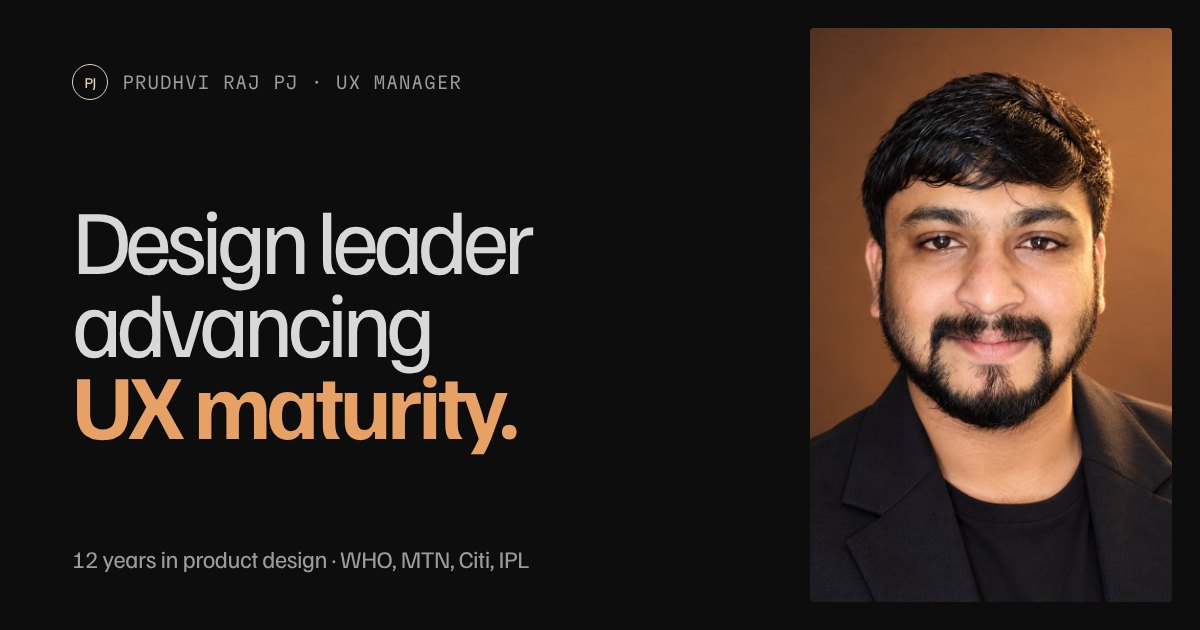
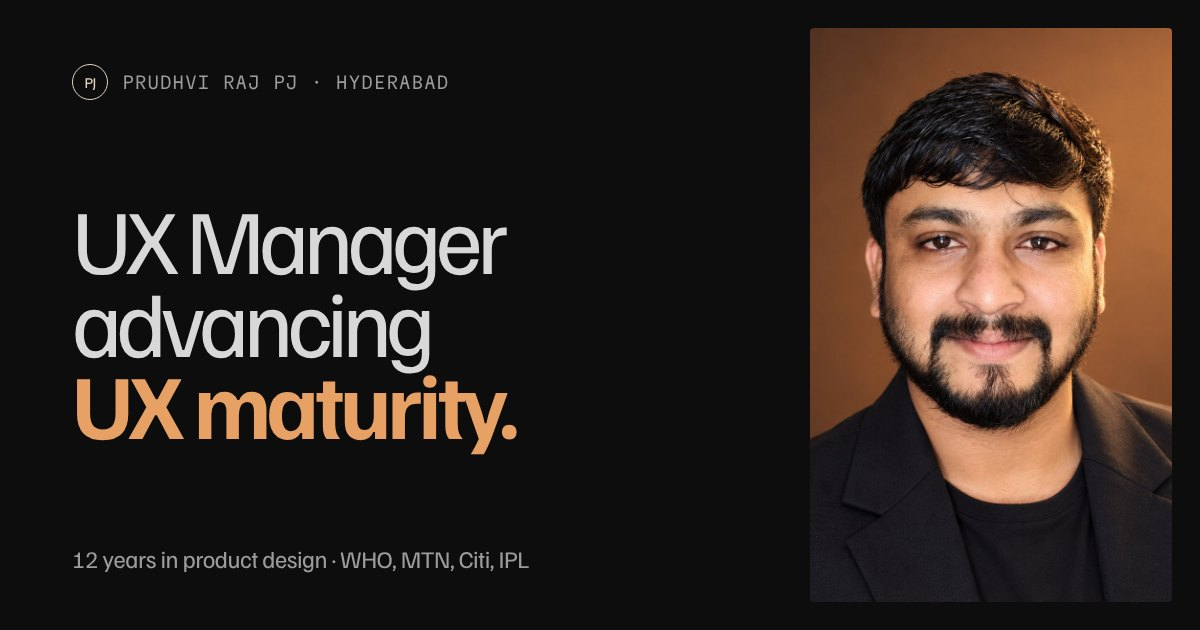
Apply the hiring-manager review: one title, portrait, decisions, shorter vision
- One title: the hero headline now leads with UX Manager; it shows in full
  from the first frame and only starts cycling after ~3.5s (no half-typed
  word on load). Link preview image regenerated to match.
- Portrait back, in About beside the principles; the projects layer now
  waits until About's closing row has been read before opening.
- Every case study gains 'The calls I made': three decisions drawn from
  the study (commented for the author to confirm and extend).
- Leadership: a before/after table of the team, built and hidden until
  real numbers are added.
- Vision section shortened from 2.8 to 1.7 screens.
- Hero tools fit one row on desktop; small tag text raised to 11.5px;
  About body leading eased. Asset stamps refreshed.

Claude-Session: https://claude.ai/code/session_01PyUrGB2wKp34VhQeSaTEvS

Changed region(s): [[0.0617, 0.3317, 0.4625, 0.4825], [0.2775, 0.1206, 0.4008, 0.1508]]

diff --git a/assets/css/studio.css b/assets/css/studio.css
@@ -218,12 +218,12 @@ ul{list-style:none}
 .about-mission{grid-column:8/12;position:relative;display:flex;flex-direction:column;gap:60px}
 .about-mission .plus{left:-7px;top:-80px}
 .about-mission .plus{background:#888}
-.about-mission p{font-size:16px;line-height:1.2}
+.about-mission p{font-size:16px;line-height:1.45}
 
 /* =========================================================
    VISION (pinned, wipes to light)
    ========================================================= */
-.vision{position:relative;height:280vh}
+.vision{position:relative;height:170vh}
 .vision-pin{position:sticky;top:0;height:100svh;overflow:hidden}
 .vision-txt{
   position:relative; z-index:3; height:100%;
@@ -325,7 +325,7 @@ ul{list-style:none}
 .wcard-img img{height:88%;width:auto;object-fit:contain;filter:drop-shadow(0 30px 50px rgba(0,0,0,.4));transition:transform 1s var(--out)}
 .wcard-word{font-family:var(--display);font-size:clamp(6rem,11vw,11rem);letter-spacing:-.08em;line-height:.8;color:rgba(255,255,255,.92);mix-blend-mode:overlay;transition:transform 1s var(--out)}
 .wcard-img:hover img,.wcard-img:hover .wcard-word{transform:scale(1.05)}
-.wcard-tag{position:absolute;z-index:2;left:14px;bottom:14px;padding:7px 11px;border-radius:30px;background:rgba(0,0,0,.4);-webkit-backdrop-filter:blur(8px);backdrop-filter:blur(8px);font-family:var(--mono);font-size:10.5px;text-transform:uppercase;color:#fff}
+.wcard-tag{position:absolute;z-index:2;left:14px;bottom:14px;padding:7px 11px;border-radius:30px;background:rgba(0,0,0,.4);-webkit-backdrop-filter:blur(8px);backdrop-filter:blur(8px);font-family:var(--mono);font-size:11.5px;text-transform:uppercase;color:#fff}
 .wcard-body{margin-top:24px;display:flex;flex-direction:column;gap:16px}
 .wcard-body .h3{color:#2a2a2a}
 .wcard-row{display:flex;flex-direction:column;gap:28px}
@@ -340,7 +340,7 @@ ul{list-style:none}
 .wmore{width:100%;max-width:26rem;border-top:1px solid rgba(67,67,67,.18)}
 .wmore li{display:flex;justify-content:space-between;align-items:baseline;padding:13px 0;border-bottom:1px solid rgba(67,67,67,.18)}
 .wmore b{font-family:var(--display);font-weight:400;font-size:1.3rem;letter-spacing:-.03em;color:#2a2a2a}
-.wmore em{font-style:normal;font-family:var(--mono);font-size:10.5px;text-transform:uppercase}
+.wmore em{font-style:normal;font-family:var(--mono);font-size:11.5px;text-transform:uppercase}
 .wend{display:none}
 
 /* desktop: pinned, scroll drives the track sideways */
@@ -571,7 +571,7 @@ ul{list-style:none}
   .about-foot{grid-column:1/-1;margin-top:60px;gap:48px}
   .about-tag,.about-mission{grid-column:1/-1}
   .about-mission .plus{display:none}
-  .vision{height:220vh}
+  .vision{height:150vh}
   .vision-t1{grid-column:1/-1}
   .vision-txt{padding:120px 0 40px}
   .fcards{grid-template-columns:1fr;max-width:380px;margin:0 auto}
@@ -766,7 +766,7 @@ html{scrollbar-color:#3a3530 var(--bg);scrollbar-width:thin}
    pins the moment About's end reaches the bottom of the screen. Its layer
    starts fully masked (About shows through) and five stripes open from the
    bottom up, lowest first (studio.js sets the mask). No empty screen. */
-.work.hs{margin-top:-100svh;background:transparent;box-shadow:none}
+.work.hs{margin-top:-62svh;background:transparent;box-shadow:none}
 .work.hs{pointer-events:none}
 .work.hs.open .work-pin{pointer-events:auto}
 #work{scroll-margin-top:-50svh}   /* links land with the panel already open */
@@ -814,5 +814,32 @@ html{scrollbar-color:#3a3530 var(--bg);scrollbar-width:thin}
 
 /* portrait gone: the intro column takes the width, tools sit under it */
 .hero-top{grid-template-columns:minmax(0,1fr)!important}
-.hero-copy .tools{max-width:620px;margin-top:28px}
+.hero-copy .tools{max-width:820px;margin-top:28px}
 .hero-copy .tools li{background:rgba(8,10,18,.5)}
+
+/* ---------- About: the portrait returns, beside the principles ---------- */
+.about-portrait{grid-column:1/3;grid-row:1/3;position:relative;margin:0;max-width:220px}
+.about-portrait img{width:100%;height:auto;aspect-ratio:4/5;object-fit:cover;object-position:50% 28%;border-radius:3px;display:block;
+  filter:grayscale(.35) contrast(1.02);transition:filter .8s var(--out)}
+.about-portrait:hover img{filter:none}
+.about-portrait .plus{background:var(--amber);z-index:1}
+.about-portrait .tl{left:-7px;top:-7px}
+.about-portrait .br{right:-7px;top:calc(100% - 41px)}
+.about-portrait figcaption{margin-top:12px;font-family:var(--mono);font-weight:300;font-size:11px;text-transform:uppercase;color:var(--ink-3)}
+.about-tag{grid-column:4/7;grid-row:2;align-self:end}
+.about-mission{grid-row:1/3;align-self:end}
+.about-foot{align-items:end}
+@media (max-width:767px){
+  .about-portrait{grid-column:1/-1;grid-row:auto;width:min(44vw,180px);margin:0}
+  .about-tag{grid-column:1/-1;align-self:auto}
+  .about-tag,.about-mission{grid-row:auto}
+}
+
+/* ---------- leadership: before / after table (hidden until filled) ---------- */
+.shift{margin-top:96px}
+.shift-h{font-family:var(--display);font-weight:400;font-size:clamp(1.6rem,2.4vw,2.2rem);letter-spacing:-.04em;margin-bottom:28px}
+.shift-t{width:100%;border-collapse:collapse;font-size:15px}
+.shift-t th,.shift-t td{padding:16px 0;border-top:1px solid var(--line);text-align:left;font-weight:400}
+.shift-t thead th{font-family:var(--mono);font-weight:300;font-size:11px;text-transform:uppercase;color:var(--ink-3)}
+.shift-t td{font-variant-numeric:tabular-nums;color:var(--ink)}
+.shift-t td:last-child{color:var(--amber)}

diff --git a/index.html b/index.html
@@ -22,7 +22,7 @@
 <meta name="twitter:image" content="assets/img/og-image.jpg">
 <meta name="theme-color" content="#0d0d0d">
 <link rel="preload" href="assets/fonts/familjen.woff2" as="font" type="font/woff2" crossorigin>
-<link rel="stylesheet" href="assets/css/studio.css?v=8cfe467a">
+<link rel="stylesheet" href="assets/css/studio.css?v=5000da9b">
 <link rel="stylesheet" href="assets/css/site-header.css?v=52905b34">
 <link rel="stylesheet" href="assets/css/site-footer.css?v=2c6b52cd">
 <script>document.documentElement.classList.add('js');</script>
@@ -96,9 +96,9 @@
       <div class="hero-top">
         <div class="hero-copy">
           <h1 class="hero-title">
-            <span class="sr">Design leader advancing UX maturity, innovation and AI.</span>
+            <span class="sr">UX Manager advancing UX maturity, innovation and AI.</span>
             <span aria-hidden="true">
-              <span class="ln"><span>Design leader</span></span>
+              <span class="ln"><span>UX Manager</span></span>
               <span class="ln"><span>advancing</span></span>
               <span class="ln rot" data-type="UX maturity.|Innovation.|AI."><span>UX maturity.</span></span>
             </span>
@@ -136,6 +136,11 @@
       <span class="lbl about-lbl">About</span>
       <p class="about-big" data-words>I'm a design leader who turns ambiguous briefs into products millions of people use, through research, clear strategy, and teams that get better every quarter.</p>
       <div class="about-foot">
+        <figure class="about-portrait">
+          <span class="plus tl" aria-hidden="true"></span><span class="plus br" aria-hidden="true"></span>
+          <img src="assets/img/prudhvi-540.jpg" srcset="assets/img/prudhvi-540.jpg 540w, assets/img/prudhvi.jpg 900w" sizes="(max-width: 767px) 60vw, 22vw" width="540" height="720" alt="Portrait of Prudhvi Raj PJ" loading="lazy" decoding="async">
+          <figcaption>Prudhvi Raj PJ &middot; UX Manager, Hyderabad</figcaption>
+        </figure>
         <p class="about-tag">Vision before velocity.<br>Evidence over opinion.<br>Teams that grow.</p>
         <div class="about-mission">
           <span class="plus" aria-hidden="true"></span>
@@ -334,6 +339,21 @@
         <li><b><span data-count="70">70</span>+</b><h3>RFPs shaped</h3><p>UX design and strategy owned for more than seventy RFP submissions, from framing the problem to the proposal.</p></li>
         <li><b>WCAG</b><h3>One standard</h3><p>The UX standards, templates and accessibility checks every deliverable is held to, written by the team, not inherited.</p></li>
       </ul>
+
+      <!-- BEFORE -> AFTER: the team you built. Replace each "?" with your real
+           numbers (when you joined vs now), then delete the hidden attribute. -->
+      <div class="shift" hidden>
+        <h3 class="shift-h">The team, before and after</h3>
+        <table class="shift-t">
+          <thead><tr><th scope="col">Measure</th><th scope="col">When I joined</th><th scope="col">Now</th></tr></thead>
+          <tbody>
+            <tr><th scope="row">Designers &amp; researchers</th><td>?</td><td>18</td></tr>
+            <tr><th scope="row">Shared design system</th><td>?</td><td>?</td></tr>
+            <tr><th scope="row">Design-to-dev handoff time</th><td>baseline</td><td>&minus;25%</td></tr>
+            <tr><th scope="row">Research in every engagement</th><td>?</td><td>?</td></tr>
+          </tbody>
+        </table>
+      </div>
 
       <div class="ai">
         <div class="ai-head">
@@ -577,7 +597,7 @@
   </div>
 </footer>
 
-<script src="assets/js/studio.js?v=f553408b"></script>
+<script src="assets/js/studio.js?v=2515a3d7"></script>
 <script src="assets/js/site-header.js?v=aea91eaa"></script>
 <script src="assets/js/analytics.js?v=7f322b5b" defer></script>
 </body>

diff --git a/case-studies/ipl.html b/case-studies/ipl.html
@@ -30,7 +30,7 @@
 <link rel="stylesheet" href="../assets/css/site-header.css?v=52905b34">
 <link rel="stylesheet" href="../assets/css/site-footer.css?v=2c6b52cd">
 <link rel="stylesheet" href="../assets/css/case-motion.css?v=b2e254b1">
-<link rel="stylesheet" href="../assets/css/cs-summary.css?v=86a59a72">
+<link rel="stylesheet" href="../assets/css/cs-summary.css?v=27b294a8">
 </head>
 <body>
 
@@ -320,6 +320,20 @@
     </div>
   </section>
 
+  <!-- ============ MY DECISIONS ============
+       Drafted from this case study. Check each one is your call, and add the
+       trade-off you accepted and who you had to convince where you can. -->
+  <section class="decide" aria-labelledby="decide-h">
+    <div class="decide-in">
+      <h2 id="decide-h">The calls I made</h2>
+      <ol class="decide-list">
+          <li><span class="decide-n">01</span><h3>Design for three fans, not an average one</h3><p>Research showed superfans, casual watchers and new fans want different things on match day. Each screen serves a named persona.</p></li>
+          <li><span class="decide-n">02</span><h3>A Lite mode for weak networks</h3><p>Tier-2/3 fans were stalling on heavy pages over patchy 3G. Lite mode drops to text and key frames instead of failing.</p></li>
+          <li><span class="decide-n">03</span><h3>One-tap clip sharing</h3><p>New fans had no easy way to share a moment. Auto-generated clips with a WhatsApp-ready share sheet turned watching into inviting.</p></li>
+      </ol>
+    </div>
+  </section>
+
   <!-- ============ IMPACT ============ -->
   <section class="ipl-sec alt" id="impact">
     <div class="container">
@@ -409,7 +423,7 @@ document.querySelectorAll('.ipl-phone.long img').forEach(function (img) {
   img.complete ? pace() : img.addEventListener('load', pace);
 });
 </script>
-<script src="../assets/js/case-motion.js?v=8555b94b"></script>
+<script src="../assets/js/case-motion.js?v=394f168d"></script>
 <script src="../assets/js/site-header.js?v=aea91eaa"></script>
 <script src="../assets/js/analytics.js?v=7f322b5b" defer></script>
 </body>

diff --git a/case-studies/who-myyoga.html b/case-studies/who-myyoga.html
@@ -30,7 +30,7 @@
 <link rel="stylesheet" href="../assets/css/site-header.css?v=52905b34">
 <link rel="stylesheet" href="../assets/css/site-footer.css?v=2c6b52cd">
 <link rel="stylesheet" href="../assets/css/case-motion.css?v=b2e254b1">
-<link rel="stylesheet" href="../assets/css/cs-summary.css?v=86a59a72">
+<link rel="stylesheet" href="../assets/css/cs-summary.css?v=27b294a8">
 </head>
 <body>
 
@@ -600,6 +600,20 @@
     </div>
   </section>
 
+  <!-- ============ MY DECISIONS ============
+       Drafted from this case study. Check each one is your call, and add the
+       trade-off you accepted and who you had to convince where you can. -->
+  <section class="decide" aria-labelledby="decide-h">
+    <div class="decide-in">
+      <h2 id="decide-h">The calls I made</h2>
+      <ol class="decide-list">
+          <li><span class="decide-n">01</span><h3>No login screen</h3><p>Registration was the first barrier for a 65-year-old on 2G. Removing it put people into a practice session on first open.</p></li>
+          <li><span class="decide-n">02</span><h3>Audio-first instruction</h3><p>Participants practised with the phone on the floor. Cues moved from screen to voice so nobody had to crane to read.</p></li>
+          <li><span class="decide-n">03</span><h3>One problem statement, signed by both clients</h3><p>WHO and the Ministry of AYUSH defined success differently. Agreeing one written statement before design saved weeks of rework.</p></li>
+      </ol>
+    </div>
+  </section>
+
   <!-- ============ OUTCOME NUMBERS ============ -->
   <section class="w-sec tight" id="impact">
     <div class="container">
@@ -720,7 +734,7 @@
 
 <script src="../assets/js/main.js?v=1dd1ffd4"></script>
 <script src="../assets/js/study.js?v=c63c7fd3"></script>
-<script src="../assets/js/case-motion.js?v=8555b94b"></script>
+<script src="../assets/js/case-motion.js?v=394f168d"></script>
 <script src="../assets/js/site-header.js?v=aea91eaa"></script>
 <script src="../assets/js/analytics.js?v=7f322b5b" defer></script>
 </body>

diff --git a/case-studies/my-mtn.html b/case-studies/my-mtn.html
@@ -30,7 +30,7 @@
 <link rel="stylesheet" href="../assets/css/site-header.css?v=52905b34">
 <link rel="stylesheet" href="../assets/css/site-footer.css?v=2c6b52cd">
 <link rel="stylesheet" href="../assets/css/case-motion.css?v=b2e254b1">
-<link rel="stylesheet" href="../assets/css/cs-summary.css?v=86a59a72">
+<link rel="stylesheet" href="../assets/css/cs-summary.css?v=27b294a8">
 </head>
 <body>
 
@@ -445,6 +445,20 @@
     </div>
   </section>
 
+  <!-- ============ MY DECISIONS ============
+       Drafted from this case study. Check each one is your call, and add the
+       trade-off you accepted and who you had to convince where you can. -->
+  <section class="decide" aria-labelledby="decide-h">
+    <div class="decide-in">
+      <h2 id="decide-h">The calls I made</h2>
+      <ol class="decide-list">
+          <li><span class="decide-n">01</span><h3>Compete on speed, not features</h3><p>Every regional telecom app already had recharge, data and offers. The bet was that two taps would win trust for everything else.</p></li>
+          <li><span class="decide-n">02</span><h3>OTP out of the critical path</h3><p>1 in 3 customers abandoned at OTP. Biometrics or a trusted device now stand in wherever they safely can.</p></li>
+          <li><span class="decide-n">03</span><h3>Plans grouped by use, not tariff code</h3><p>Customers said every plan name sounded the same. Grouping by what people do made the good deal findable.</p></li>
+      </ol>
+    </div>
+  </section>
+
   <!-- ============ OUTCOME ============ -->
   <section class="outcome" id="impact">
     <div class="outcome-in">
@@ -545,7 +559,7 @@
 
 <script src="../assets/js/main.js?v=1dd1ffd4"></script>
 <script src="../assets/js/study.js?v=c63c7fd3"></script>
-<script src="../assets/js/case-motion.js?v=8555b94b"></script>
+<script src="../assets/js/case-motion.js?v=394f168d"></script>
 <script src="../assets/js/site-header.js?v=aea91eaa"></script>
 <script src="../assets/js/analytics.js?v=7f322b5b" defer></script>
 </body>

diff --git a/assets/js/studio.js b/assets/js/studio.js
@@ -370,7 +370,8 @@
   })();
 
   /* ---------- hero: typewriter on the last line only ----------
-     "Design leader / advancing" stay put; the last line types a word,
+     "UX Manager / advancing" stay put; the full first phrase shows at once,
+     then the last line erases and types the next word,
      holds, deletes it and types the next (UX maturity, Innovation, AI)
      on repeat. The HTML carries the first word, so without JS or with
      reduced motion the headline still reads in full. */
@@ -381,8 +382,7 @@
     var slot = rotLine.firstElementChild;
     var caret = document.createElement('span');
     caret.className = 'caret';
-    slot.textContent = '';
-    rotLine.appendChild(caret);
+    rotLine.appendChild(caret);   // the first phrase is already in the HTML
 
     var wait = function (ms) { return new Promise(function (r) { setTimeout(r, ms); }); };
     function run(step, speed) {
@@ -409,14 +409,14 @@
       }, 34);
     }
 
+    // Hold the full first phrase long enough to read, then erase and cycle.
     var w = 0;
-    (function loop() {
-      type(words[w])
-        .then(function () { return wait(1800); })
+    (function loop(first) {
+      (first ? wait(3600) : type(words[w]).then(function () { return wait(1800); }))
         .then(erase)
         .then(function () { w = (w + 1) % words.length; return wait(300); })
-        .then(loop);
-    })();
+        .then(function () { loop(false); });
+    })(true);
   })();
 
   /* ---------- AI cards: a light that follows the pointer ---------- */
@@ -555,7 +555,7 @@
 
   // The blocks that animate in each section, top to bottom.
   var PARTS = {
-    about: '.about-lbl, .about-big, .about-tag, .about-mission',
+    about: '.about-lbl, .about-big, .about-portrait, .about-tag, .about-mission',
     leadership: '.sec-head, .lead-grid, .ai-head, .ai-grid',
     expertise: '.exp-row',
     workshops: '.sec-head, .ws-grid > *, .yt',

diff --git a/assets/css/cs-summary.css b/assets/css/cs-summary.css
@@ -47,3 +47,15 @@
   .tldr-out li{grid-template-columns:96px 1fr;gap:14px}
   .outcome-grid,.feat-grid{grid-template-columns:1fr}
 }
+
+/* "The calls I made": three decisions, numbered because order of the
+   story matters, set on the case study's own accent. */
+.decide{padding:clamp(64px,8vw,104px) 0;border-top:1px solid rgba(255,255,255,.08)}
+.decide-in{max-width:var(--container,1200px);margin:0 auto;padding:0 24px}
+.decide h2{font-family:var(--display,inherit);font-weight:700;font-size:clamp(28px,3.4vw,44px);letter-spacing:-.04em;line-height:1.05;margin:0 0 40px}
+.decide-list{list-style:none;margin:0;padding:0;display:grid;grid-template-columns:repeat(3,minmax(0,1fr));gap:40px}
+.decide-list li{border-top:1px solid var(--acc);padding-top:22px}
+.decide-n{display:block;font-family:var(--mono,ui-monospace,monospace);font-size:11px;letter-spacing:.14em;color:var(--acc);margin-bottom:14px}
+.decide-list h3{font-size:19px;line-height:1.25;font-weight:600;margin:0 0 10px;letter-spacing:-.01em}
+.decide-list p{font-size:15.5px;line-height:1.6;color:rgba(255,255,255,.74);margin:0;max-width:40ch}
+@media (max-width:900px){ .decide-list{grid-template-columns:1fr;gap:28px} }

diff --git a/assets/js/case-motion.js b/assets/js/case-motion.js
@@ -21,7 +21,7 @@
     '.flow-box', '.phone-col', '.swatch', '.results-band',
     '.w-stat', '.w-metric', '.w-panel', '.w-insight', '.w-finding', '.w-ksf', '.w-decision', '.w-node',
     '.cv-role', '.cv-stat', '.cv-results > li', '.cv-tools > div', '.cv-list > li',
-    '.tldr-out > li:not(.tldr-h)', '.tldr dl > div', '.outcome-grid > li', '.feat-grid > .feat'
+    '.tldr-out > li:not(.tldr-h)', '.decide-list > li', '.tldr dl > div', '.outcome-grid > li', '.feat-grid > .feat'
   ].join(',');
   var HEADS = 'h1, h2, h3, .w-serif, .next-title, .w-next a, .mtn-wordmark';
   var COPY = 'p, blockquote, .cs-kicker, .cs-label, .w-kicker, .w-label, .eyebrow, .cs-tags, ' +

diff --git a/resume.html b/resume.html
@@ -342,7 +342,7 @@
   </div>
 </footer>
 
-<script src="assets/js/case-motion.js?v=8555b94b"></script>
+<script src="assets/js/case-motion.js?v=394f168d"></script>
 <script src="assets/js/site-header.js?v=aea91eaa"></script>
 <script src="assets/js/analytics.js?v=7f322b5b" defer></script>
 </body>
